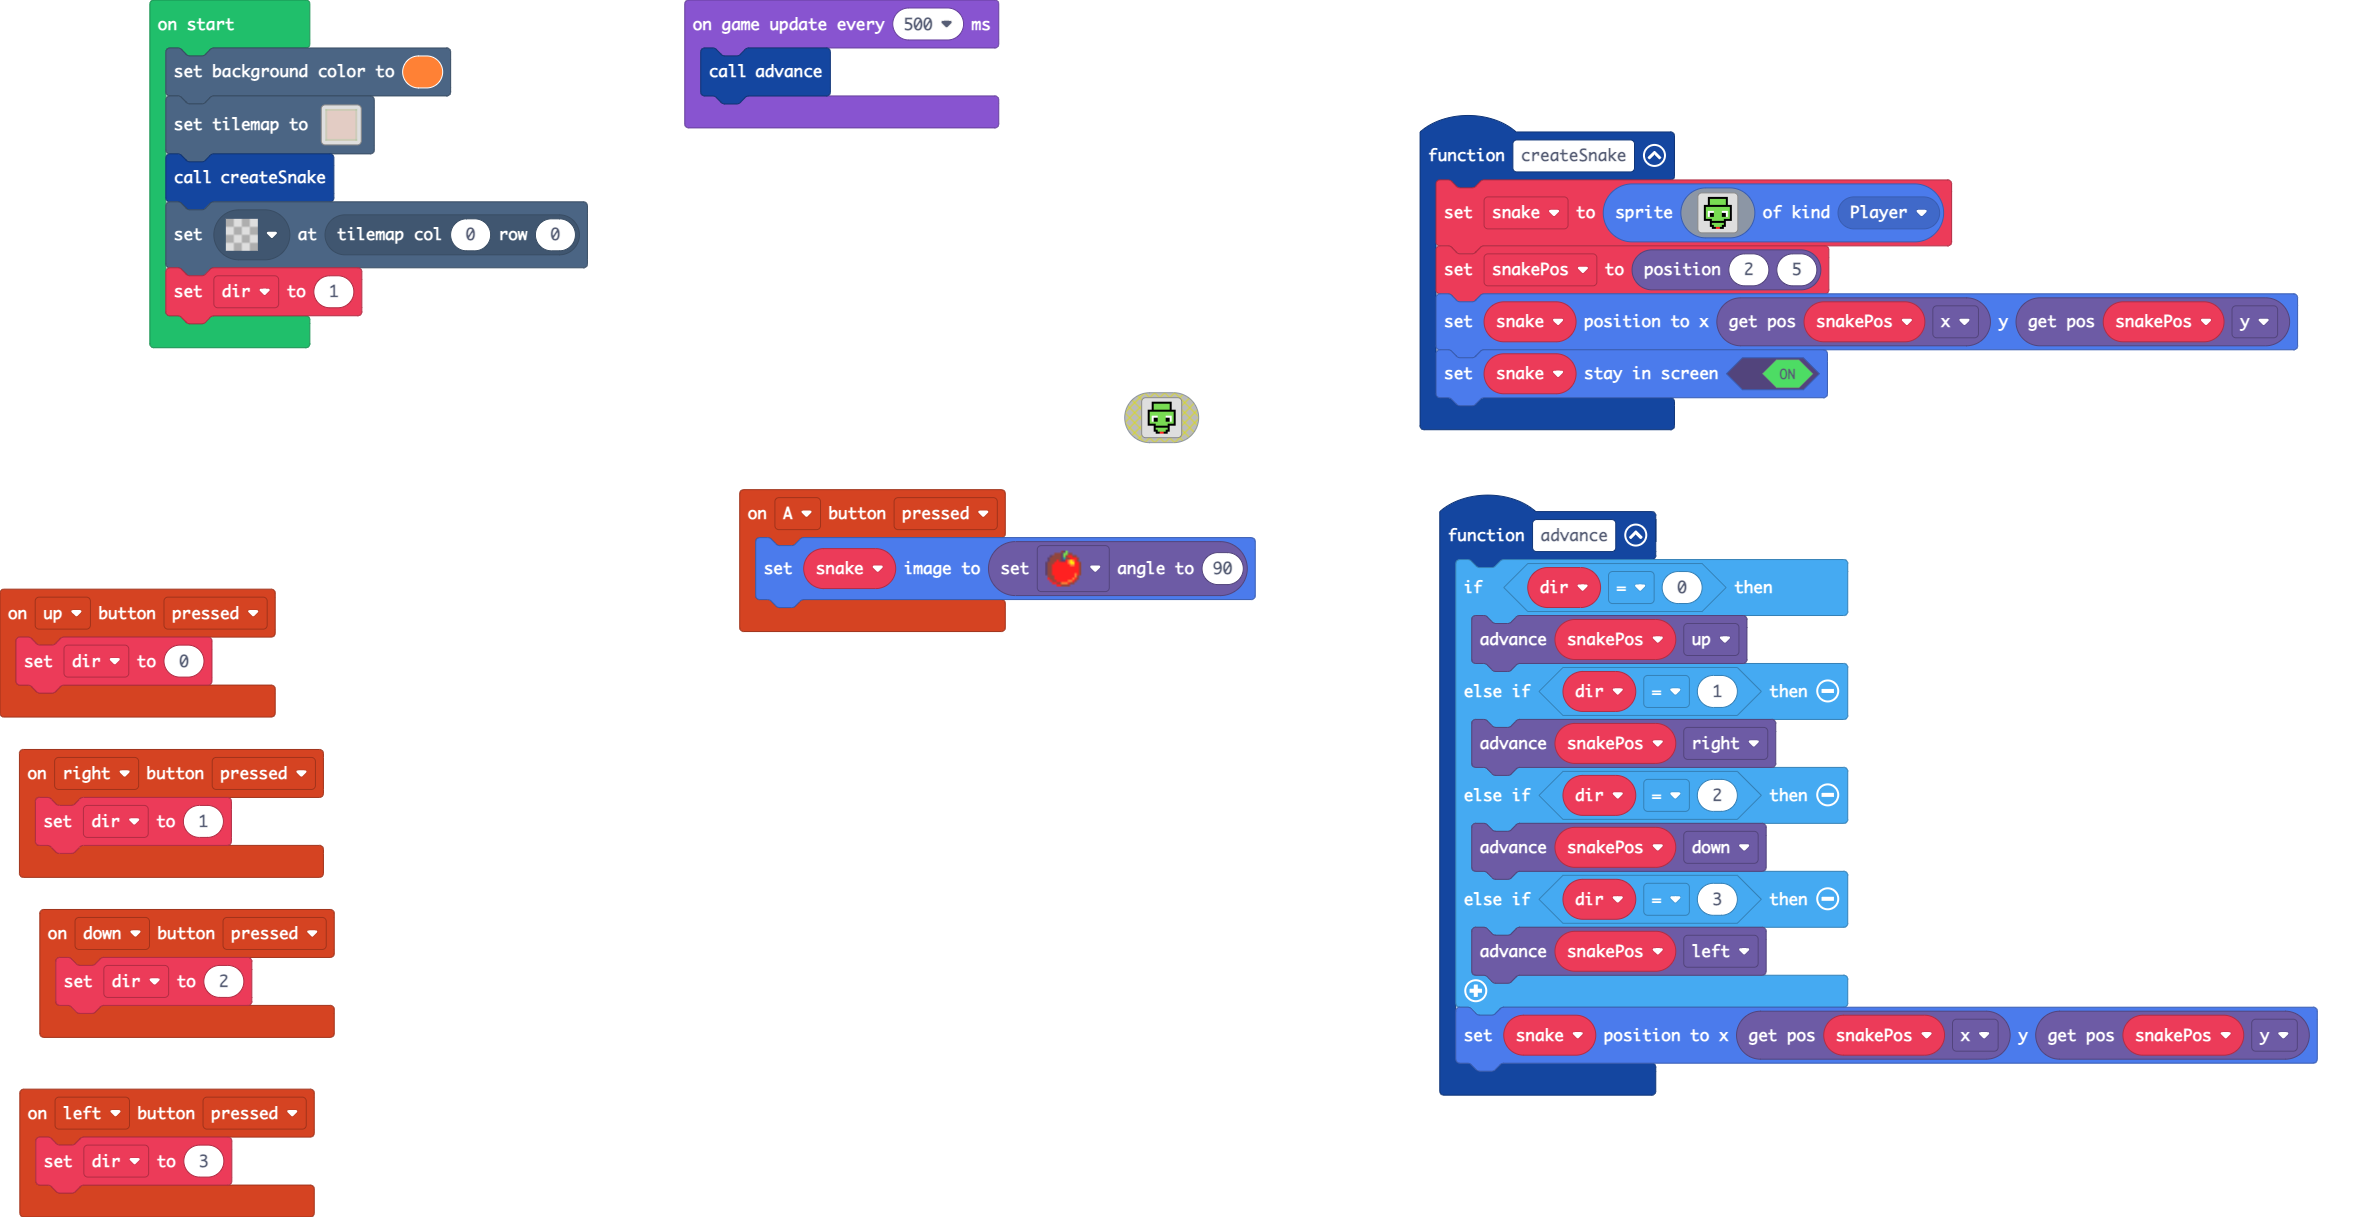
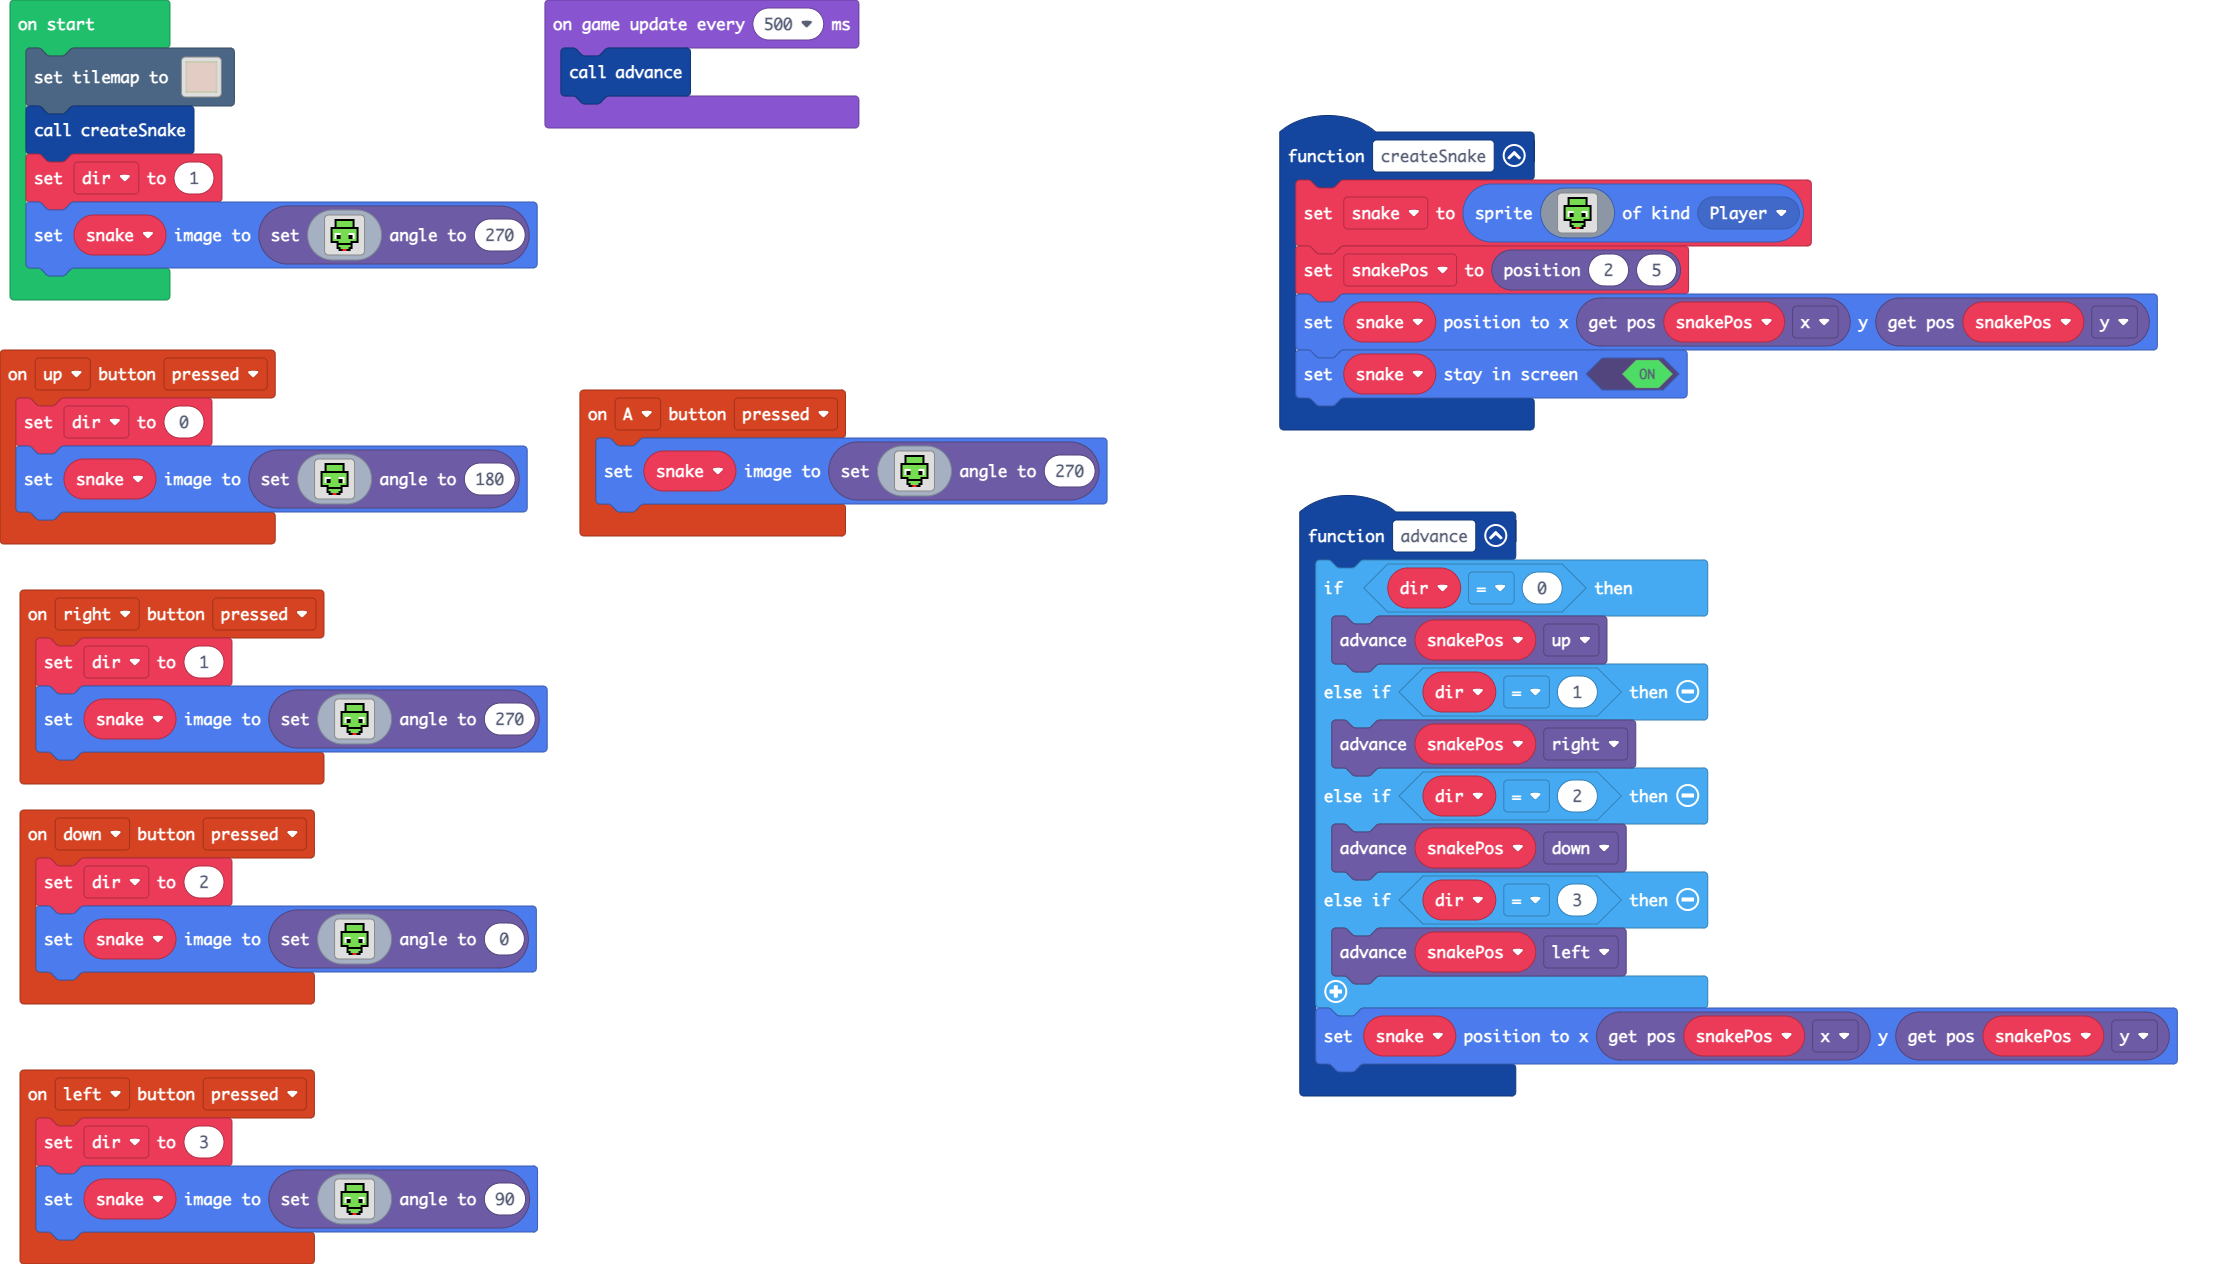
Update pxt.json, main.blocks, main.ts, tilemap.g.jres, tilemap.g.ts, images.g.jres, images.g.ts

diff --git a/tilemap.g.ts b/tilemap.g.ts
@@ -24,6 +24,82 @@ namespace myTiles {
 . . . . . . . . . . . . . . . . 
 . . . . . . . . . . . . . . . . 
 `, [myTiles.transparency16,sprites.castle.tilePath1,sprites.castle.tilePath3,sprites.castle.tilePath9,sprites.castle.tilePath7,sprites.castle.tilePath5,sprites.castle.tilePath4,sprites.castle.tilePath6,sprites.castle.tilePath2,sprites.castle.tilePath8], TileScale.Sixteen);
+            case "level2":
+            case "level2":return tiles.createTilemap(hex`1000100000000000000000000000000000000000000000000000000000000000000000000000000000000000000000000000000000000000000000000000000000000000000000000000000000000000000000000000000000000000000000000000000000000000000000000000000000000000000000000000000000000000000000000000000000000000000000000000000000000000000000000000000000000000000000000000000000000000000000000000000000000000000000000000000000000000000000000000000000000000000000000000000000000000000000000000000000000000000000000000000000000000000000000000000000000000`, img`
+. . . . . . . . . . . . . . . . 
+. . . . . . . . . . . . . . . . 
+. . . . . . . . . . . . . . . . 
+. . . . . . . . . . . . . . . . 
+. . . . . . . . . . . . . . . . 
+. . . . . . . . . . . . . . . . 
+. . . . . . . . . . . . . . . . 
+. . . . . . . . . . . . . . . . 
+. . . . . . . . . . . . . . . . 
+. . . . . . . . . . . . . . . . 
+. . . . . . . . . . . . . . . . 
+. . . . . . . . . . . . . . . . 
+. . . . . . . . . . . . . . . . 
+. . . . . . . . . . . . . . . . 
+. . . . . . . . . . . . . . . . 
+. . . . . . . . . . . . . . . . 
+`, [myTiles.transparency16], TileScale.Sixteen);
+            case "level3":
+            case "level3":return tiles.createTilemap(hex`1000100000000000000000000000000000000000000000000000000000000000000000000000000000000000000000000000000000000000000000000000000000000000000000000000000000000000000000000000000000000000000000000000000000000000000000000000000000000000000000000000000000000000000000000000000000000000000000000000000000000000000000000000000000000000000000000000000000000000000000000000000000000000000000000000000000000000000000000000000000000000000000000000000000000000000000000000000000000000000000000000000000000000000000000000000000000000`, img`
+. . . . . . . . . . . . . . . . 
+. . . . . . . . . . . . . . . . 
+. . . . . . . . . . . . . . . . 
+. . . . . . . . . . . . . . . . 
+. . . . . . . . . . . . . . . . 
+. . . . . . . . . . . . . . . . 
+. . . . . . . . . . . . . . . . 
+. . . . . . . . . . . . . . . . 
+. . . . . . . . . . . . . . . . 
+. . . . . . . . . . . . . . . . 
+. . . . . . . . . . . . . . . . 
+. . . . . . . . . . . . . . . . 
+. . . . . . . . . . . . . . . . 
+. . . . . . . . . . . . . . . . 
+. . . . . . . . . . . . . . . . 
+. . . . . . . . . . . . . . . . 
+`, [myTiles.transparency16], TileScale.Sixteen);
+            case "level4":
+            case "level4":return tiles.createTilemap(hex`1000100000000000000000000000000000000000000000000000000000000000000000000000000000000000000000000000000000000000000000000000000000000000000000000000000000000000000000000000000000000000000000000000000000000000000000000000000000000000000000000000000000000000000000000000000000000000000000000000000000000000000000000000000000000000000000000000000000000000000000000000000000000000000000000000000000000000000000000000000000000000000000000000000000000000000000000000000000000000000000000000000000000000000000000000000000000000`, img`
+. . . . . . . . . . . . . . . . 
+. . . . . . . . . . . . . . . . 
+. . . . . . . . . . . . . . . . 
+. . . . . . . . . . . . . . . . 
+. . . . . . . . . . . . . . . . 
+. . . . . . . . . . . . . . . . 
+. . . . . . . . . . . . . . . . 
+. . . . . . . . . . . . . . . . 
+. . . . . . . . . . . . . . . . 
+. . . . . . . . . . . . . . . . 
+. . . . . . . . . . . . . . . . 
+. . . . . . . . . . . . . . . . 
+. . . . . . . . . . . . . . . . 
+. . . . . . . . . . . . . . . . 
+. . . . . . . . . . . . . . . . 
+. . . . . . . . . . . . . . . . 
+`, [myTiles.transparency16], TileScale.Sixteen);
+            case "level5":
+            case "level5":return tiles.createTilemap(hex`1000100000000000000000000000000000000000000000000000000000000000000000000000000000000000000000000000000000000000000000000000000000000000000000000000000000000000000000000000000000000000000000000000000000000000000000000000000000000000000000000000000000000000000000000000000000000000000000000000000000000000000000000000000000000000000000000000000000000000000000000000000000000000000000000000000000000000000000000000000000000000000000000000000000000000000000000000000000000000000000000000000000000000000000000000000000000000`, img`
+. . . . . . . . . . . . . . . . 
+. . . . . . . . . . . . . . . . 
+. . . . . . . . . . . . . . . . 
+. . . . . . . . . . . . . . . . 
+. . . . . . . . . . . . . . . . 
+. . . . . . . . . . . . . . . . 
+. . . . . . . . . . . . . . . . 
+. . . . . . . . . . . . . . . . 
+. . . . . . . . . . . . . . . . 
+. . . . . . . . . . . . . . . . 
+. . . . . . . . . . . . . . . . 
+. . . . . . . . . . . . . . . . 
+. . . . . . . . . . . . . . . . 
+. . . . . . . . . . . . . . . . 
+. . . . . . . . . . . . . . . . 
+. . . . . . . . . . . . . . . . 
+`, [myTiles.transparency16], TileScale.Sixteen);
         }
         return null;
     })

diff --git a/images.g.ts b/images.g.ts
@@ -22,25 +22,6 @@ namespace myImages {
 . . . f f 7 f 7 7 f 7 7 f . . . 
 . . . f 7 7 7 7 7 f 7 f f . . . 
 `;
-            case "image3":
-            case "myImage1":return img`
-. . . f f 7 f 7 7 7 7 f f . . . 
-. . . f f 7 f 7 7 f 7 7 f . . . 
-. . . f 7 7 f 7 7 7 7 7 f . . . 
-. . . f 7 7 7 7 7 7 7 7 f . . . 
-. . . f 7 7 7 7 7 f 7 f f . . . 
-. . . f 7 7 f 7 7 f 7 7 f . . . 
-. . . f 7 7 7 7 7 f 7 7 f . . . 
-. . . f 7 7 7 7 7 7 7 7 f . . . 
-. . . f f 7 f 7 7 7 7 7 f . . . 
-. . . f 7 7 f 7 7 f 7 f f . . . 
-. . . f 7 7 f 7 7 7 7 7 f . . . 
-. . . f f 7 7 7 7 7 7 f f . . . 
-. . . f 7 7 7 7 7 7 7 f f . . . 
-. . . f f 7 7 7 7 f 7 7 f . . . 
-. . . f f 7 f 7 7 f 7 7 f . . . 
-. . . f 7 7 7 7 7 f 7 f f . . . 
-`;
             case "image1":
             case "myImage":return img`
 . . . f f f f f f f f f f . . . 
@@ -59,6 +40,25 @@ namespace myImages {
 . . . . f 7 7 7 7 7 7 f . . . . 
 . . . . f f 7 7 7 7 f f . . . . 
 . . . . . f f 2 2 f f . . . . . 
+`;
+            case "image3":
+            case "myImage1":return img`
+. . . f f 7 f 7 7 7 7 f f . . . 
+. . . f f 7 f 7 7 f 7 7 f . . . 
+. . . f 7 7 f 7 7 7 7 7 f . . . 
+. . . f 7 7 7 7 7 7 7 7 f . . . 
+. . . f 7 7 7 7 7 f 7 f f . . . 
+. . . f 7 7 f 7 7 f 7 7 f . . . 
+. . . f 7 7 7 7 7 f 7 7 f . . . 
+. . . f 7 7 7 7 7 7 7 7 f . . . 
+. . . f f 7 f 7 7 7 7 7 f . . . 
+. . . f 7 7 f 7 7 f 7 f f . . . 
+. . . f 7 7 f 7 7 7 7 7 f . . . 
+. . . f f 7 7 7 7 7 7 f f . . . 
+. . . f 7 7 7 7 7 7 7 f f . . . 
+. . . f f 7 7 7 7 f 7 7 f . . . 
+. . . f f 7 f 7 7 f 7 7 f . . . 
+. . . f 7 7 7 7 7 f 7 f f . . . 
 `;
         }
         return null;

diff --git a/main.ts b/main.ts
@@ -1,8 +1,9 @@
 controller.up.onEvent(ControllerButtonEvent.Pressed, function () {
     dir = 0
+    snake.setImage(Rotate.rotateNormal(assets.image`myImage`, 180))
 })
 controller.A.onEvent(ControllerButtonEvent.Pressed, function () {
-    snake.setImage(Rotate.rotateNormal(sprites.food.smallApple, 90))
+    snake.setImage(Rotate.rotateNormal(assets.image`myImage`, 270))
 })
 function advance () {
     if (dir == 0) {
@@ -24,21 +25,23 @@ function createSnake () {
 }
 controller.left.onEvent(ControllerButtonEvent.Pressed, function () {
     dir = 3
+    snake.setImage(Rotate.rotateNormal(assets.image`myImage`, 90))
 })
 controller.right.onEvent(ControllerButtonEvent.Pressed, function () {
     dir = 1
+    snake.setImage(Rotate.rotateNormal(assets.image`myImage`, 270))
 })
 controller.down.onEvent(ControllerButtonEvent.Pressed, function () {
     dir = 2
+    snake.setImage(Rotate.rotateNormal(assets.image`myImage`, 0))
 })
 let snakePos: Position.Position = null
 let snake: Sprite = null
 let dir = 0
-scene.setBackgroundColor(4)
 tiles.setTilemap(tilemap`level1`)
 createSnake()
-tiles.setTileAt(tiles.getTileLocation(0, 0), assets.tile`transparency16`)
 dir = 1
+snake.setImage(Rotate.rotateNormal(assets.image`myImage`, 270))
 game.onUpdateInterval(500, function () {
     advance()
 })
